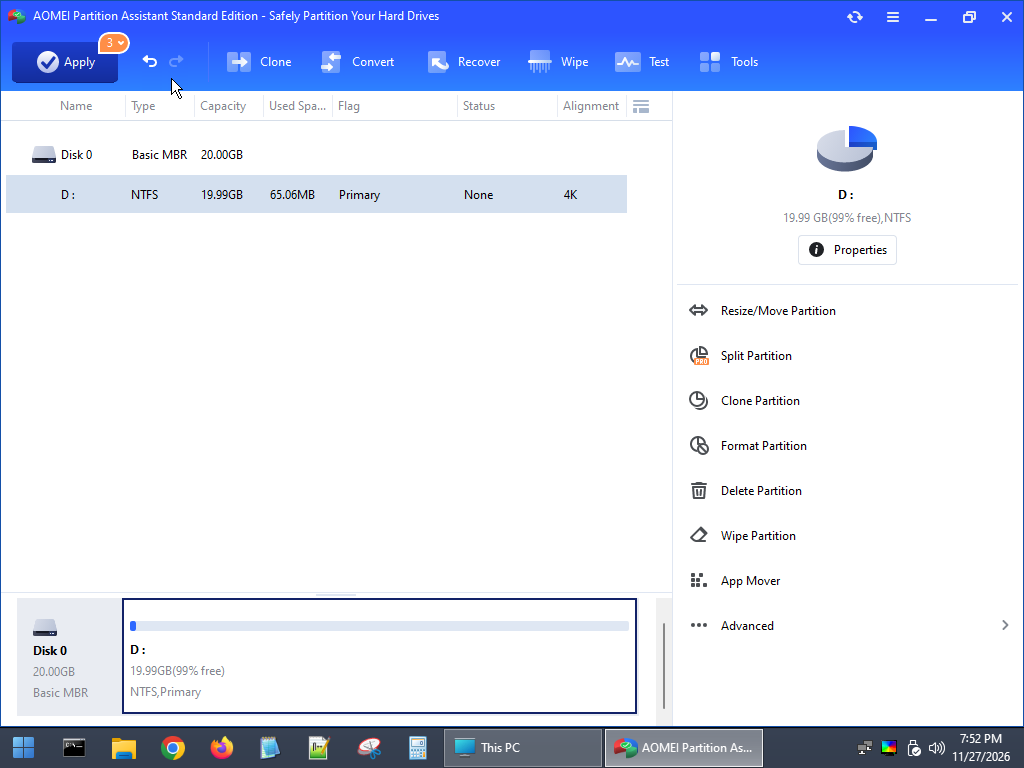
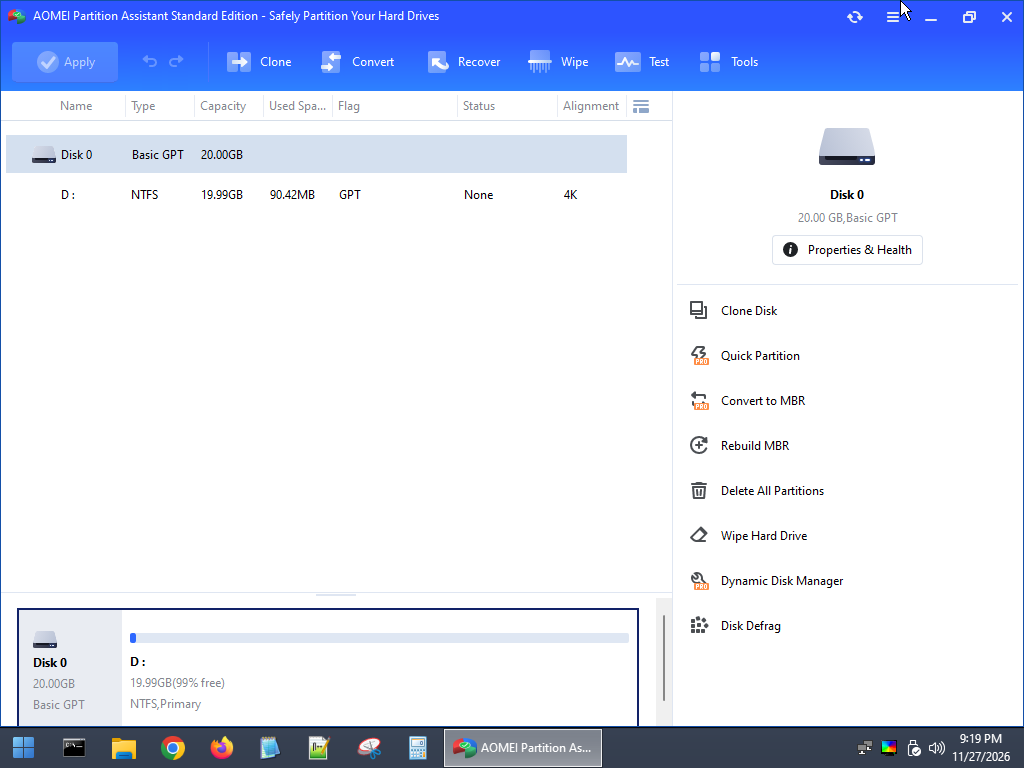
alteração2

diff --git a/entregas/giovani.md b/entregas/giovani.md
@@ -31,7 +31,7 @@
 
 | Métrica Aferida | Resultado Obtido |
 | :--- | :--- |
-| **Taxa Mínima (Minimum)** | ___ MB/s |
+| **Taxa Mínima (Minimum)** | 266.0 MB/s |
 | **Taxa Máxima (Maximum)** | ___ MB/s |
 | **Taxa Média (Average)** | ___ MB/s |
 | **Tempo de Acesso (Access Time)** | ___ ms |
